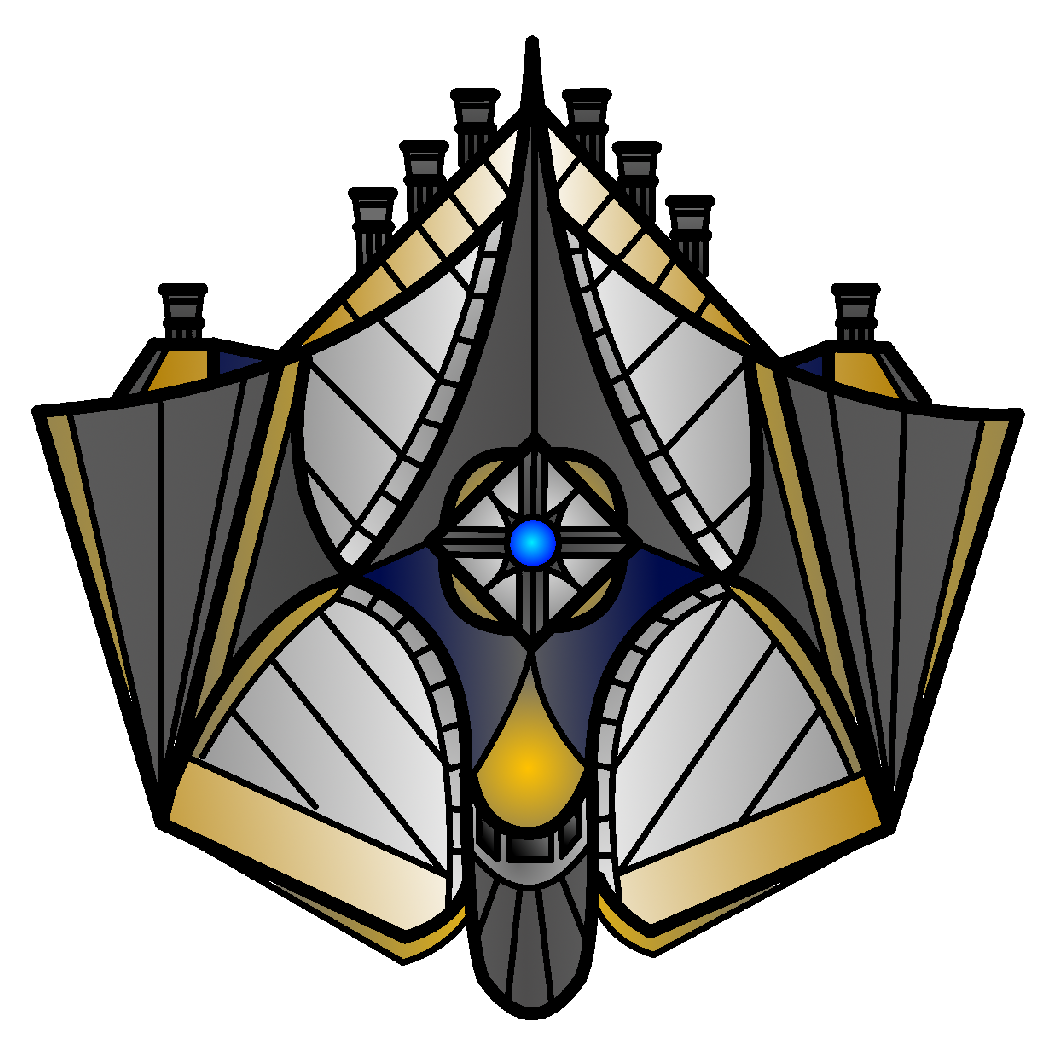
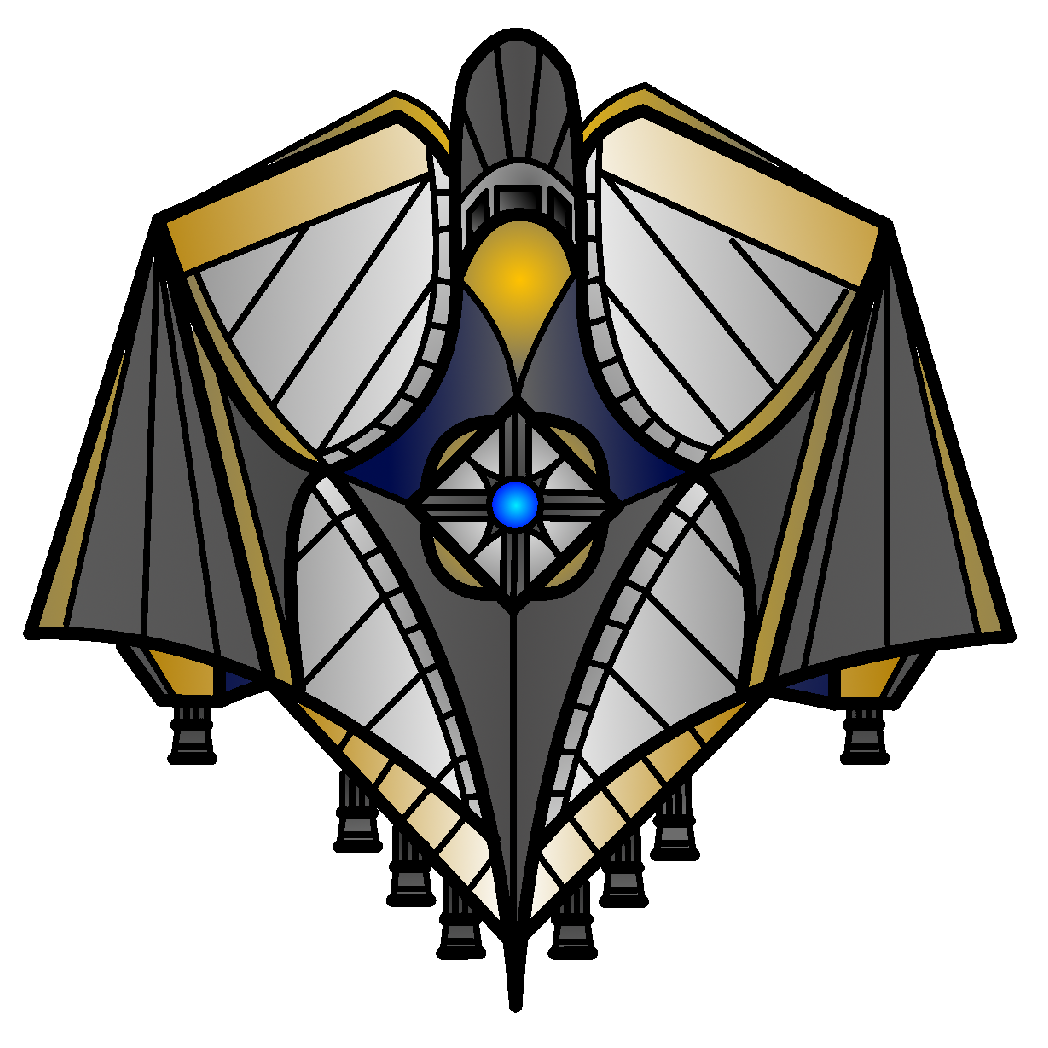
Ship3 gfx fix and game/loadmenu integration Changed rotation of the ship3 sprite and added the game and load menus into the game

diff --git a/scenes/ui/GameMenu.cs b/scenes/ui/GameMenu.cs
@@ -31,6 +31,15 @@ public partial class GameMenu : HBoxContainer
 			_soundManager.Call("PlaySound", 0, 0);
 			GetTree().ChangeSceneToFile("res://scenes/ui/TitleScreen.tscn");
 		};
+		GetNode<TextureButton>("VBoxContainerRight/TextureRect/LoadGame").Pressed += () => {
+			_soundManager.Call("PlaySound", 0, 0);
+			GetTree().ChangeSceneToFile("res://scenes/ui/LoadMenu.tscn");
+		};
+		GetNode<TextureButton>("VBoxContainerRight/TextureRect/NewGame").Pressed += () => {
+			_soundManager.Call("PlaySound", 0, 0);
+			_soundManager.Call("Fight");
+			GetTree().ChangeSceneToFile("res://scenes/main/game.tscn");
+		};
 	}
 
 

diff --git a/scenes/ui/LoadMenu.cs b/scenes/ui/LoadMenu.cs
@@ -21,7 +21,7 @@ public partial class LoadMenu : HBoxContainer
 		GetNode<TextureButton>("VBoxContainerRight/SaveListBg/LoadButton").Pressed += () => {
 				var saves = DB.GetSaves();
 				PlayerVariables.LoadFromSave(saves.Keys.Max() - _selectedItem);
-
+				_soundManager.Call("Fight");
 				GetTree().ChangeSceneToFile("res://scenes/main/game.tscn");
 		};
 		GetNode<TextureButton>("VBoxContainerRight/SaveListBg/DeleteButton").Pressed += () =>

diff --git a/scenes/ui/TitleScreen.cs b/scenes/ui/TitleScreen.cs
@@ -41,8 +41,8 @@ public partial class TitleScreen : VBoxContainer
 			&& (@event is InputEventKey || @event is InputEventMouseButton)
 			&& Visible)
 		{
-			_soundManager.Call("Fight");
-			GetTree().ChangeSceneToFile("res://scenes/main/game.tscn");
+			_soundManager.Call("Menu");
+			GetTree().ChangeSceneToFile("res://scenes/ui/GameMenu.tscn");
 		}
 	}
 }
